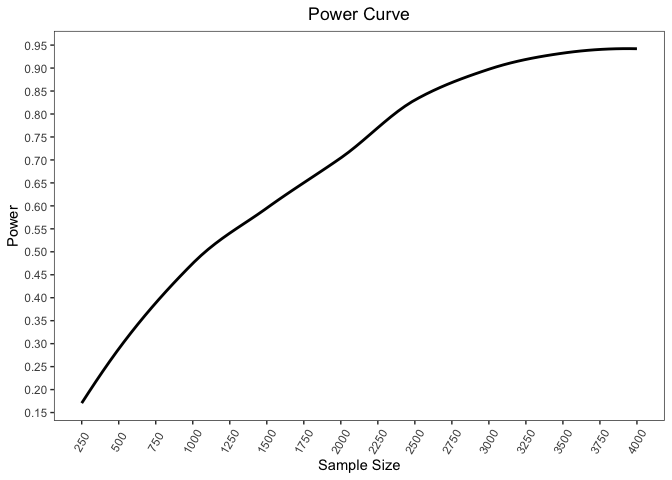
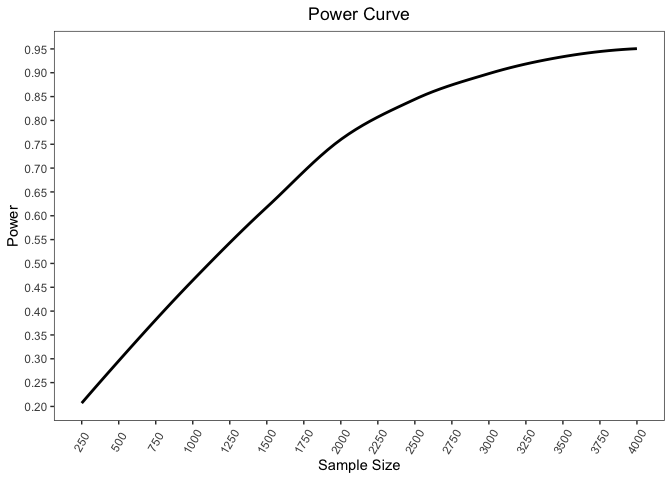
Documentation

diff --git a/README.md b/README.md
@@ -20,8 +20,8 @@ devtools::install_github("dennist2/ZIPowerAnalysis")
 
 ## Example
 
-This is a basic example which shows the model used in the application
-portion of our paper
+This is a basic example which shows the model used on the Depression
+data set in application portion of our paper
 
 ``` r
 library(ZIPowerAnalysis)
@@ -30,22 +30,22 @@ ZI_Power(model=Depression~Sex+EOD_total,cov_interest = "EOD_total",family = "poi
 #>   |                                                                              |                                                                      |   0%  |                                                                              |====                                                                  |   6%  |                                                                              |=========                                                             |  12%  |                                                                              |=============                                                         |  19%  |                                                                              |==================                                                    |  25%  |                                                                              |======================                                                |  31%  |                                                                              |==========================                                            |  38%  |                                                                              |===============================                                       |  44%  |                                                                              |===================================                                   |  50%  |                                                                              |=======================================                               |  56%  |                                                                              |============================================                          |  62%  |                                                                              |================================================                      |  69%  |                                                                              |====================================================                  |  75%  |                                                                              |=========================================================             |  81%  |                                                                              |=============================================================         |  88%  |                                                                              |==================================================================    |  94%  |                                                                              |======================================================================| 100%
 #> $Results
 #>    SampleSize Power
-#> 1         250  0.12
-#> 2         500  0.33
-#> 3         750  0.41
-#> 4        1000  0.54
-#> 5        1250  0.53
-#> 6        1500  0.58
-#> 7        1750  0.64
-#> 8        2000  0.69
-#> 9        2250  0.75
-#> 10       2500  0.87
-#> 11       2750  0.89
-#> 12       3000  0.89
-#> 13       3250  0.90
-#> 14       3500  0.91
-#> 15       3750  0.92
-#> 16       4000  0.97
+#> 1         250  0.20
+#> 2         500  0.30
+#> 3         750  0.43
+#> 4        1000  0.39
+#> 5        1250  0.55
+#> 6        1500  0.62
+#> 7        1750  0.70
+#> 8        2000  0.78
+#> 9        2250  0.79
+#> 10       2500  0.84
+#> 11       2750  0.90
+#> 12       3000  0.86
+#> 13       3250  0.94
+#> 14       3500  0.93
+#> 15       3750  0.93
+#> 16       4000  0.96
 #> 
 #> $Plot
 #> `geom_smooth()` using formula = 'y ~ x'
